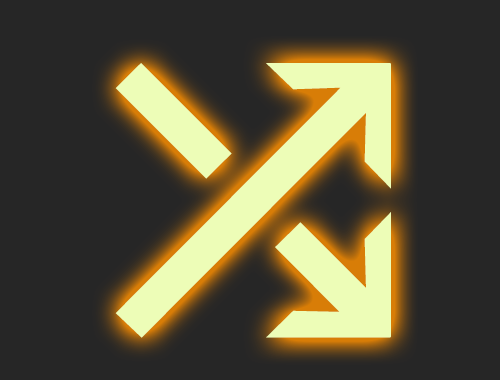
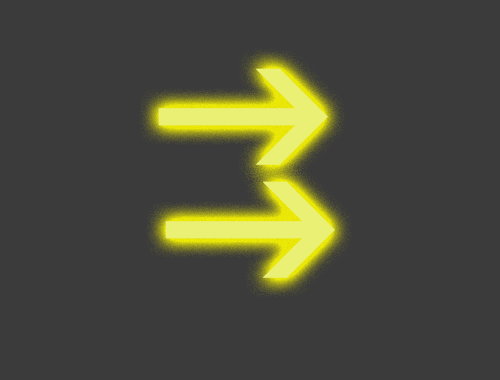
增加修改卡图的patch，修改两张牌，修改一张牌名

diff --git a/src/DemoMod/TheGleaner/Cards/GleanerCard/ClusterStrike.cs b/src/DemoMod/TheGleaner/Cards/GleanerCard/ClusterStrike.cs
@@ -15,87 +15,150 @@ using System.Collections;
 namespace DemoMod.TheGleaner.Cards.GleanerCard;
 
 [Pool(typeof(TokenCardPool))]
-public class ClusterStrike : CustomCardModel, IAppendDescriptionCard {
-    public override string PortraitPath => $"res://TheGleaner/images/cards/{Id.Entry.ToLowerInvariant()}.png";
+public class ClusterStrike : CustomCardModel, IAppendDescriptionCard
+{
+    public override string PortraitPath => GetPortraitPath();
+
     protected override HashSet<CardTag> CanonicalTags => [CardTag.Strike];
-    protected override IEnumerable<IHoverTip> ExtraHoverTips {
-        get {
-            return cards.Where(card => card is IArrowCard).Select(card => {
+
+    protected override IEnumerable<IHoverTip> ExtraHoverTips
+    {
+        get
+        {
+            return cards.Where(card => card is IArrowCard).Select(card =>
+            {
                 IArrowCard arrowCard = card as IArrowCard;
-                return (IHoverTip) new HoverTip(arrowCard.getArrowName(), arrowCard.getArrowDescription());
+                return (IHoverTip)new HoverTip(arrowCard.getArrowName(), arrowCard.getArrowDescription());
             });
         }
     }
+
     protected override IEnumerable<DynamicVar> CanonicalVars => [
         new IntVar("Amount", 0),
         new IntVar("HitCount", 0),
         new IntVar("Grow", 50),
         new DamageVar(6, ValueProp.Move)
     ];
+
     private List<CardModel> cards = [];
 
-    public ClusterStrike() : base(1, CardType.Attack, CardRarity.Token, TargetType.AnyEnemy) {
+    public ClusterStrike() : base(1, CardType.Attack, CardRarity.Token, TargetType.AnyEnemy)
+    {
     }
 
-    public void setCards(List<CardModel> cards) {
+    private string GetPortraitPath()
+    {
+        int hitCount = GetCurrentHitCount();
+        int stage = GetPortraitStage(hitCount);
+
+        return $"res://TheGleaner/images/cards/demomod-cluster_strike_{stage}.png";
+    }
+
+    private int GetCurrentHitCount()
+    {
+        if (DynamicVars == null || !DynamicVars.ContainsKey("HitCount"))
+        {
+            return 0;
+        }
+
+        return DynamicVars["HitCount"].IntValue;
+    }
+
+    private int GetPortraitStage(int hitCount)
+    {
+
+
+
+        if (hitCount >= 10)
+            return 9;
+
+        return hitCount - 1;
+    }
+
+    public void setCards(List<CardModel> cards)
+    {
         int hitCount = 0;
-        foreach (CardModel card in cards) {
-            if (!this.cards.Any(c => c.Id.Equals(card.Id))) {
+
+        foreach (CardModel card in cards)
+        {
+            if (!this.cards.Any(c => c.Id.Equals(card.Id)))
+            {
                 this.cards.Add(card);
             }
-            if (card is IArrowCard arrowCard) {
+
+            if (card is IArrowCard arrowCard)
+            {
                 arrowCard.onMerge(this);
             }
-            if (card is ClusterStrike) {
+
+            if (card is ClusterStrike)
+            {
                 hitCount += card.DynamicVars["HitCount"].IntValue;
-                if (card.IsUpgraded && !IsUpgraded) {
+
+                if (card.IsUpgraded && !IsUpgraded)
+                {
                     UpgradeInternal();
                     FinalizeUpgradeInternal();
                 }
-            } else {
+            }
+            else
+            {
                 hitCount++;
             }
         }
 
         DynamicVars["HitCount"].UpgradeValueBy(hitCount);
     }
-    
-    protected override async Task OnPlay(PlayerChoiceContext choiceContext, CardPlay cardPlay) {
+
+    protected override async Task OnPlay(PlayerChoiceContext choiceContext, CardPlay cardPlay)
+    {
         AttackContext context = await AttackCommand.CreateContextAsync(CombatState, this);
         List<DamageResult> results = [];
-        for (int _ = 0; _ < DynamicVars["HitCount"].IntValue; _++) {
+
+        for (int _ = 0; _ < DynamicVars["HitCount"].IntValue; _++)
+        {
             IEnumerable<DamageResult> damageResults = await CreatureCmd.Damage(choiceContext, cardPlay.Target, DynamicVars.Damage, this);
             context.AddHit(damageResults);
             results.AddRange(damageResults);
         }
-        
-        foreach (CardModel card in cards) {
-            if (card is IArrowCard arrowCard) {
+
+        foreach (CardModel card in cards)
+        {
+            if (card is IArrowCard arrowCard)
+            {
                 await arrowCard.arrowEffect(choiceContext, cardPlay, results, this, context);
             }
         }
     }
 
-    public override Decimal ModifyDamageAdditive(
+    public override decimal ModifyDamageAdditive(
         Creature? target,
-        Decimal amount,
+        decimal amount,
         ValueProp props,
         Creature? dealer,
-        CardModel? cardSource) {
-        if (cardSource == this && !props.HasFlag(ValueProp.Unpowered)) {
+        CardModel? cardSource)
+    {
+        if (cardSource == this && !props.HasFlag(ValueProp.Unpowered))
+        {
             decimal baseDamage = DynamicVars.Damage.BaseValue;
             return baseDamage * DynamicVars["Amount"].BaseValue / 100M;
         }
+
         return 0M;
     }
-    
-    protected override void OnUpgrade() {
+
+    protected override void OnUpgrade()
+    {
         DynamicVars.Damage.UpgradeValueBy(3);
     }
 
-    public string AppendDescription() {
+    public string AppendDescription()
+    {
         List<string> descriptions = [];
-        descriptions.AddRange(cards.Where(card => card is IArrowCard).Select(card => ((IArrowCard) card).getArrowName().GetFormattedText()));
-        return "[gold]" + string.Join<string>("[/gold]" + '\n' + "[gold]", descriptions) + "[/gold]";
+        descriptions.AddRange(cards
+            .Where(card => card is IArrowCard)
+            .Select(card => ((IArrowCard)card).getArrowName().GetFormattedText()));
+
+        return "[gold]" + string.Join<string>("[/gold]\n[gold]", descriptions) + "[/gold]";
     }
 }

diff --git a/src/DemoMod/TheGleaner/Patches/CardPortraitPatch.cs b/src/DemoMod/TheGleaner/Patches/CardPortraitPatch.cs
@@ -1,0 +1,46 @@
+using Godot;
+using HarmonyLib;
+using MegaCrit.Sts2.Core.Entities.Cards;
+using MegaCrit.Sts2.Core.Nodes.Cards;
+using DemoMod.TheGleaner.Cards.GleanerCard;
+
+namespace DemoMod.TheGleaner.Patches;
+
+[HarmonyPatch(typeof(NCard), "UpdateVisuals")]
+public static class ClusterStrikePortraitPatch
+{
+    [HarmonyPostfix]
+    public static void Postfix(NCard __instance)
+    {
+        if (__instance?.Model is not ClusterStrike model)
+            return;
+
+        try
+        {
+            Texture2D? portrait = model.Portrait;
+            if (portrait == null)
+                return;
+
+            if (model.Rarity == CardRarity.Ancient)
+            {
+                TextureRect? ancientPortrait = __instance.GetNodeOrNull<TextureRect>("%AncientPortrait");
+                if (ancientPortrait != null && ancientPortrait.Texture != portrait)
+                {
+                    ancientPortrait.Texture = portrait;
+                }
+            }
+            else
+            {
+                TextureRect? portraitRect = __instance.GetNodeOrNull<TextureRect>("%Portrait");
+                if (portraitRect != null && portraitRect.Texture != portrait)
+                {
+                    portraitRect.Texture = portrait;
+                }
+            }
+        }
+        catch
+        {
+            // 避免 UI 刷新异常影响整局
+        }
+    }
+}

diff --git a/src/DemoMod/TheGleaner/Cards/GleanerCard/ClusterStringWeave.cs b/src/DemoMod/TheGleaner/Cards/GleanerCard/ClusterStringWeave.cs
@@ -23,7 +23,7 @@ public class ClusterStringWeave : CustomCardModel {
     public override IEnumerable<CardKeyword> CanonicalKeywords => [CardKeyword.Exhaust];
     protected override IEnumerable<IHoverTip> ExtraHoverTips => [HoverTipFactory.FromCard(previewCard)];
 
-    public ClusterStringWeave() : base(1, CardType.Skill, CardRarity.Uncommon, TargetType.Self) {
+    public ClusterStringWeave() : base(1, CardType.Skill, CardRarity.Common, TargetType.Self) {
     }
 
     public override async Task BeforeCombatStart() {